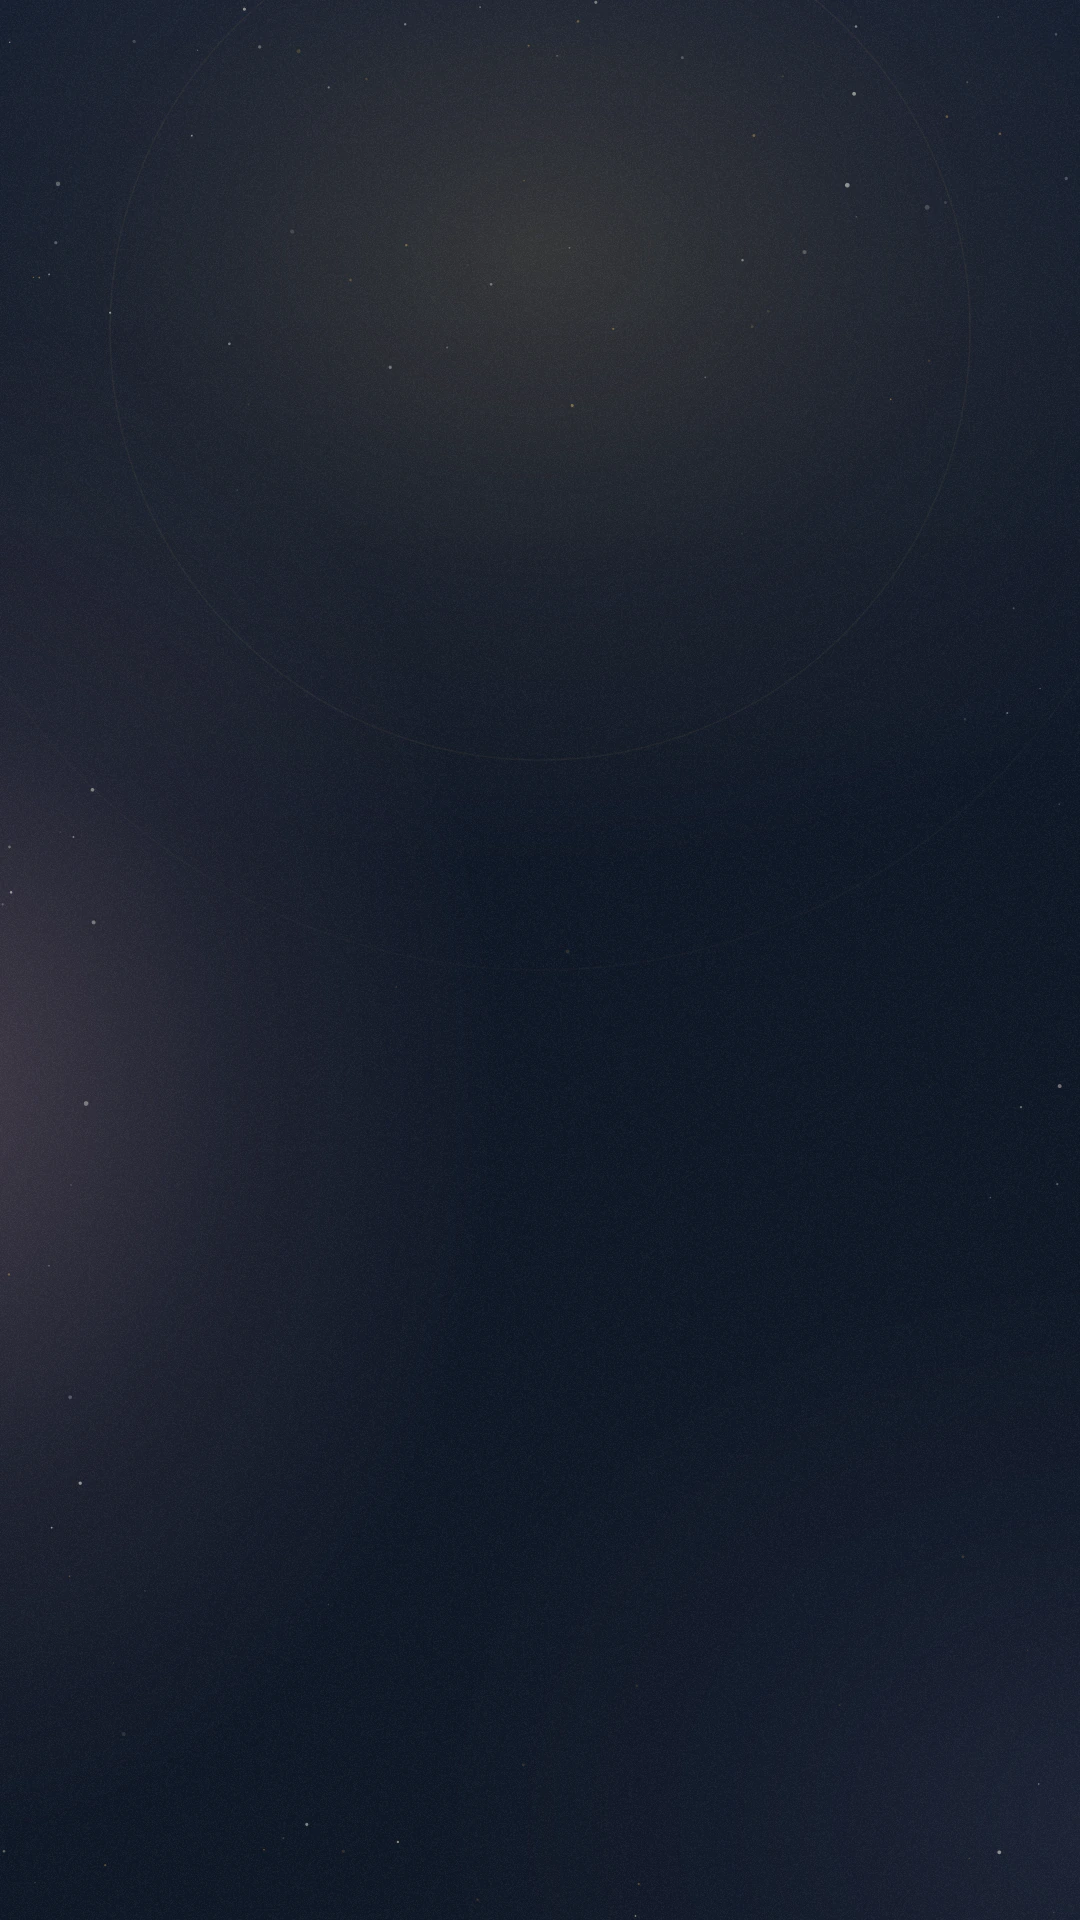
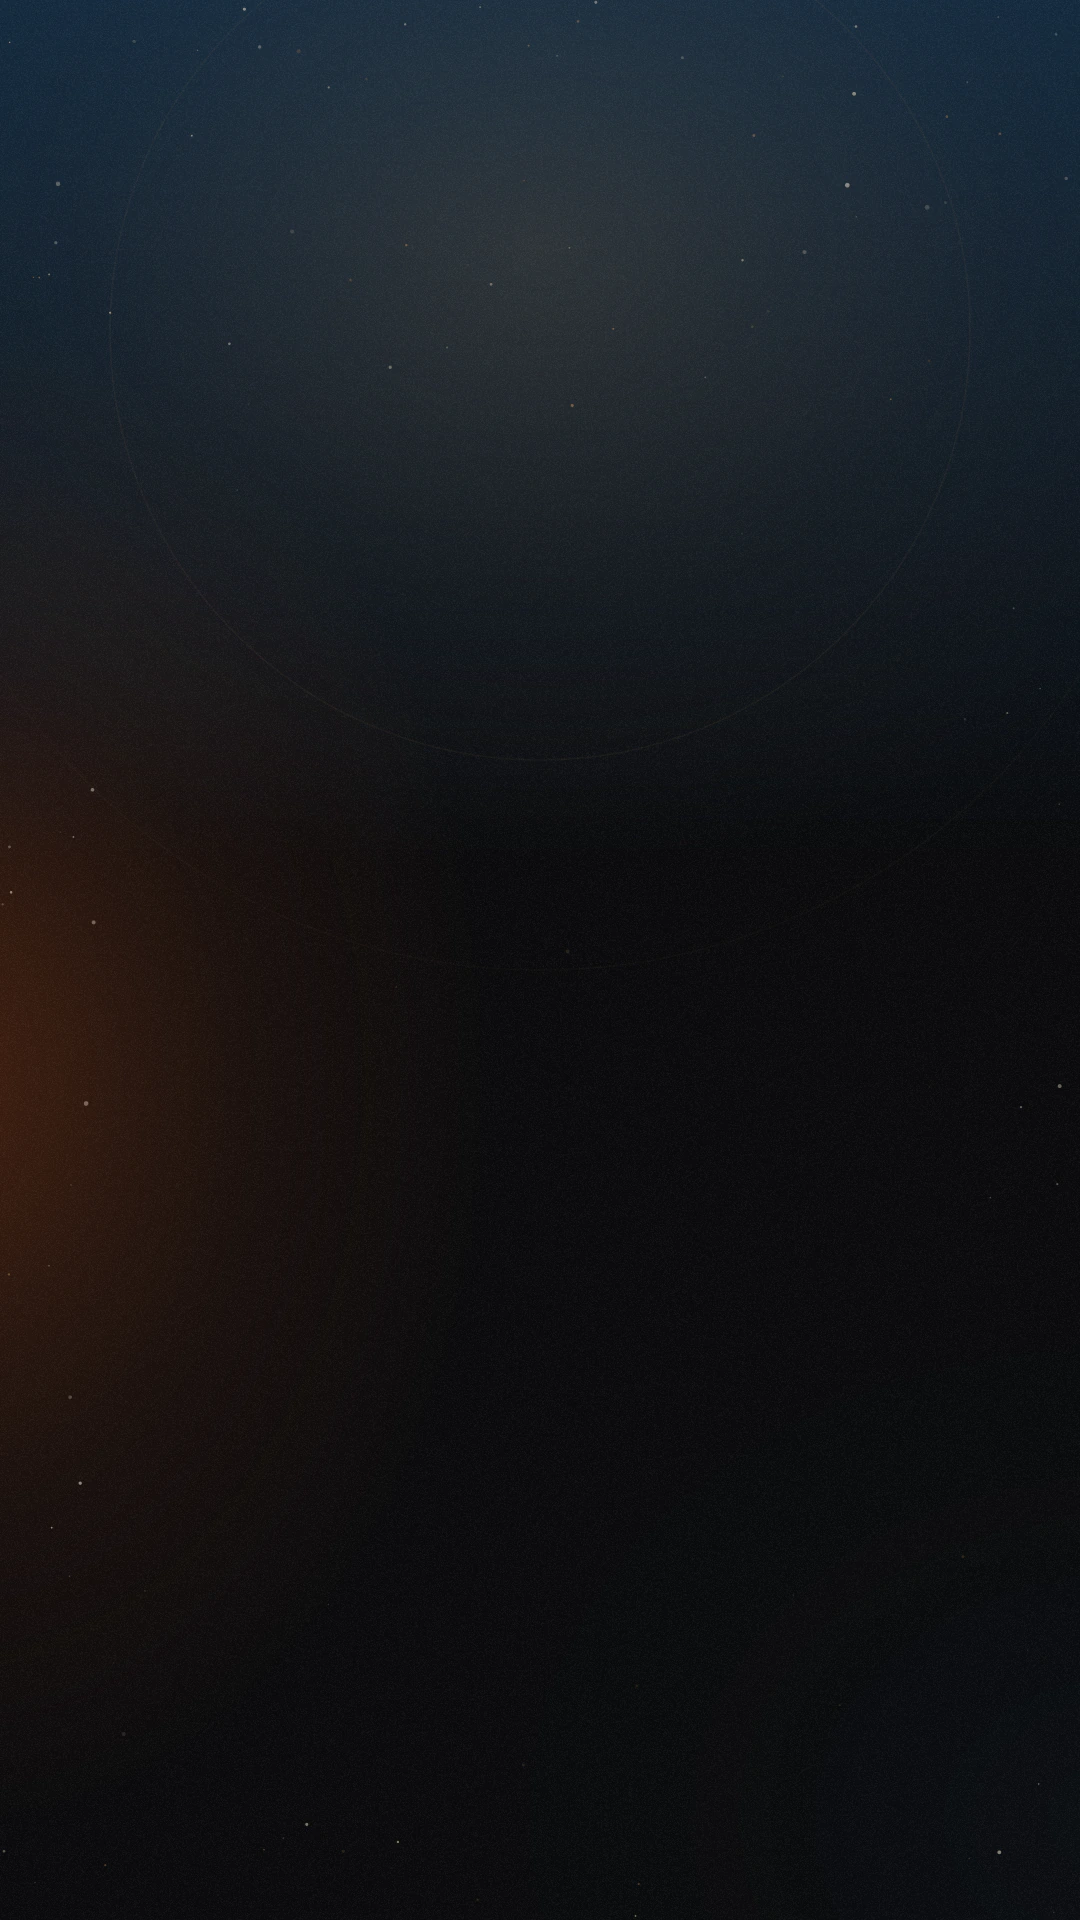
feat(design): direction « nuit, papier et braise » (ADR-033)
Encre noire, texte parchemin, accent orange brûlé, lignes d'orbite en bronze, lueur bleu nuit ;
thème clair sur papier. Fonds de carte régénérés, symbole et écran de lancement accordés.

Claude-Session: https://claude.ai/code/session_011dJqJYMKgc5MMgHRWGadNE

diff --git a/packages/shared/src/tokens/colors.ts b/packages/shared/src/tokens/colors.ts
@@ -32,62 +32,85 @@ export const COLOR_ROLES = [
 export type ColorRole = (typeof COLOR_ROLES)[number];
 export type ColorScheme = Readonly<Record<ColorRole, string>>;
 
+/**
+ * Direction « nuit, papier et braise » (ADR-033) : noir profond, bleu nuit, papier beige, orange brûlé,
+ * fines lignes de bronze. Ces teintes ne servent qu'aux deux thèmes ci-dessous.
+ */
+const night = {
+  ink: '#0B0B0D',
+  coal: '#141416',
+  coalRaised: '#1C1C20',
+  seam: '#2E2823',
+  navy: '#10283F',
+  navyDeep: '#0D1A28',
+  paper: '#DCCDB5',
+  paperLight: '#E4D7C2',
+  paperLighter: '#EBE0CE',
+  paperEdge: '#BFAE94',
+  paperShade: '#D3C2A6',
+  parchment: '#E9DDC9',
+  ash: '#A69B8B',
+  ember: '#E2711D',
+  emberDeep: '#AD4705',
+  emberInk: '#7E3403',
+  bronze: '#B08A5E',
+} as const;
+
+/** Thème sombre, par défaut (ADR-033) : encre noire, texte parchemin, accent braise. */
 export const darkColors: ColorScheme = {
-  bg: palette.midnight,
-  surface: palette.deepNavy,
-  surfaceRaised: palette.slate,
-  border: '#2C3A54',
-  text: palette.ivory,
-  textSecondary: palette.warmGrey,
-  accent: palette.champagne,
-  accentFill: palette.champagne,
-  accentText: palette.champagne,
-  onAccent: palette.midnight,
-  aspectSoft: palette.lavenderGrey,
-  aspectHard: palette.dustyRose,
+  bg: night.ink,
+  surface: night.coal,
+  surfaceRaised: night.coalRaised,
+  border: night.seam,
+  text: night.parchment,
+  textSecondary: night.ash,
+  accent: night.ember,
+  accentFill: night.ember,
+  accentText: night.ember,
+  onAccent: night.ink,
+  aspectSoft: '#7FA3C7',
+  aspectHard: '#D46A4A',
   success: palette.sage,
-  danger: palette.mutedCoral,
-  scrim: 'rgba(16,24,39,0.72)',
-  // ADR-007 : fond nébuleux (dégradé de `backdrop` vers `backdropTint`) et halo ciblé.
-  backdrop: palette.aubergine,
-  backdropTint: palette.nebula,
-  glow: 'rgba(233,214,172,0.35)',
-  // Finition « verre et laiton » : reflet intérieur des surfaces, bordure d'accent atténuée.
-  highlight: 'rgba(243,239,231,0.08)',
-  accentMuted: 'rgba(198,166,106,0.35)',
+  danger: '#E0584B',
+  scrim: 'rgba(11,11,13,0.76)',
+  // Fond : une lueur bleu nuit très douce en haut d'écran.
+  backdrop: night.navyDeep,
+  backdropTint: night.navy,
+  glow: 'rgba(226,113,29,0.30)',
+  highlight: 'rgba(233,221,201,0.06)',
+  // Lignes d'orbite, filets et bordures mises en avant : bronze atténué.
+  accentMuted: 'rgba(176,138,94,0.55)',
 };
 
-/**
- * Thème clair, par défaut depuis ADR-032 (planche « ivoire et doré ») : fond ivoire chaud, cartes crème,
- * encre nuit, doré profond pour les traits et les états. Valide seulement si le test de contraste passe.
- */
+/** Thème clair : le même univers sur papier beige, encre noire, braise approfondie pour rester lisible. */
 export const lightColors: ColorScheme = {
-  bg: palette.ivory,
-  surface: '#FAF6EE',
-  surfaceRaised: '#FFFDF8',
-  border: '#E3D9C8',
-  text: palette.midnight,
-  textSecondary: '#55596A',
-  // Champagne Gold est trop clair sur ivoire pour un trait ou un petit texte : sa version profonde le remplace.
-  accent: palette.champagneDeep,
-  // Aplat des boutons et des pastilles actives : le Champagne Gold de la charte, sous un texte encre nuit.
-  accentFill: palette.champagne,
-  accentText: palette.champagneInk,
-  onAccent: palette.midnight,
-  aspectSoft: palette.lavenderDeep,
-  aspectHard: '#8E5F6B',
-  success: '#4F7A5C',
-  danger: '#A8504A',
-  scrim: 'rgba(16,24,39,0.40)',
-  backdrop: '#F2ECE1',
-  backdropTint: '#F0E7D8',
-  glow: 'rgba(156,124,64,0.22)',
-  highlight: 'rgba(255,255,255,0.70)',
-  accentMuted: 'rgba(156,124,64,0.35)',
+  bg: night.paper,
+  surface: night.paperLight,
+  surfaceRaised: night.paperLighter,
+  border: night.paperEdge,
+  text: night.ink,
+  textSecondary: '#4A443C',
+  accent: night.emberDeep,
+  accentFill: night.ember,
+  accentText: night.emberInk,
+  onAccent: night.ink,
+  aspectSoft: '#2F5E86',
+  aspectHard: '#A8401F',
+  success: '#3F6B4C',
+  danger: '#9E2F25',
+  scrim: 'rgba(11,11,13,0.40)',
+  backdrop: night.paper,
+  backdropTint: night.paperShade,
+  glow: 'rgba(173,71,5,0.22)',
+  highlight: 'rgba(255,255,255,0.45)',
+  accentMuted: 'rgba(126,52,3,0.40)',
 };
+
+/** Couleurs du symbole selon le fond (remplace celles de l'Annexe C tant que le logo définitif n'est pas livré). */
+export const brandInk = { paper: night.parchment, ink: night.ink, bronze: night.bronze, emberFrom: '#C9541A', emberTo: '#F08A2E', emberDeep: night.emberDeep } as const;
 
 export const THEME_NAMES = ['dark', 'light'] as const;
 export type ThemeName = (typeof THEME_NAMES)[number];
-/** Thème servi par défaut (ADR-032). Le sombre reste disponible. */
-export const DEFAULT_THEME: ThemeName = 'light';
+/** Thème servi par défaut (ADR-033). Le clair, sur papier, reste disponible. */
+export const DEFAULT_THEME: ThemeName = 'dark';
 export const colorSchemes: Readonly<Record<ThemeName, ColorScheme>> = { dark: darkColors, light: lightColors };

diff --git a/apps/mobile/src/components/ui/Backdrop.tsx b/apps/mobile/src/components/ui/Backdrop.tsx
@@ -1,11 +1,15 @@
-// Fond nébuleux (ADR-007) : nuit profonde, lueur violette très douce en haut d'écran, grain discret.
+// Fond (ADR-007, ADR-033) : encre profonde, lueur bleu nuit très douce en haut d'écran, deux fines lignes
+// d'orbite en bronze, grain discret.
 // Purement décoratif : ne reçoit aucun geste et n'est pas lu par VoiceOver.
-import { Canvas, Fill, Image, RadialGradient, Rect, useImage, vec } from '@shopify/react-native-skia';
+import { Canvas, Fill, Image, Oval, RadialGradient, Rect, useImage, vec } from '@shopify/react-native-skia';
 import { StyleSheet, useWindowDimensions } from 'react-native';
 import { getAsset, isProvisional } from '@/assets/registry';
 import { useTheme } from '@/theme/ThemeProvider';
 
 const NEBULA_RADIUS_RATIO = 0.9;
+// Orbites : deux ellipses décentrées qui débordent du haut de l'écran, en proportion de sa largeur.
+const ORBITS = [{ cx: 0.5, cy: 0.04, rx: 0.72, ry: 0.5 }, { cx: 0.62, cy: -0.02, rx: 0.46, ry: 0.34 }] as const;
+const ORBIT_OPACITY = 0.5;
 
 export function Backdrop() {
   const theme = useTheme();
@@ -17,6 +21,10 @@ export function Backdrop() {
       <Rect x={0} y={0} width={width} height={height} opacity={theme.opacities.nebula}>
         <RadialGradient c={vec(width / 2, 0)} r={width * NEBULA_RADIUS_RATIO} colors={[theme.colors.backdropTint, theme.colors.backdrop, theme.colors.bg]} />
       </Rect>
+      {ORBITS.map((o) => (
+        <Oval key={o.rx} x={(o.cx - o.rx) * width} y={(o.cy - o.ry) * width} width={o.rx * 2 * width} height={o.ry * 2 * width}
+          color={theme.colors.accentMuted} opacity={ORBIT_OPACITY} style="stroke" strokeWidth={theme.borderWidth} />
+      ))}
       {grain ? <Image image={grain} x={0} y={0} width={width} height={height} fit="cover" opacity={theme.opacities.grain} /> : null}
     </Canvas>
   );

diff --git a/packages/shared/src/tokens/logo.ts b/packages/shared/src/tokens/logo.ts
@@ -1,6 +1,6 @@
 // Géométrie canonique du symbole Aurorya (SPEC Annexe C.1), dans un repère 200 × 200.
 // Seule source des cotes : le fichier SVG du registre et l'animation AuroraRise en dérivent.
-import { palette } from './colors';
+import { brandInk } from './colors';
 
 export const LOGO = {
   box: 200,
@@ -15,16 +15,16 @@ export const LOGO = {
 
 /** Couleurs du symbole sur fond sombre (Annexe C.1). Le logo ne se recolore pas hors palette. */
 const logoOnDark = {
-  ring: palette.ivory,
-  halo: palette.lavenderGrey,
-  sunFrom: palette.dustyRose,
-  sunTo: palette.champagneLight,
-  horizon: palette.ivory,
-  letter: palette.champagne,
-  star: palette.ivory,
+  ring: brandInk.paper,
+  halo: brandInk.bronze,
+  sunFrom: brandInk.emberFrom,
+  sunTo: brandInk.emberTo,
+  horizon: brandInk.paper,
+  letter: brandInk.bronze,
+  star: brandInk.paper,
 } as const;
-/** Sur fond clair, les traits ivoire deviennent encre nuit et le doré s'approfondit pour rester lisible. */
-const logoOnLight = { ...logoOnDark, ring: palette.midnight, halo: palette.lavenderDeep, horizon: palette.midnight, letter: palette.champagneDeep, star: palette.midnight } as const;
+/** Sur papier, les traits clairs deviennent encre noire. */
+const logoOnLight = { ...logoOnDark, ring: brandInk.ink, horizon: brandInk.ink, letter: brandInk.emberDeep, star: brandInk.ink } as const;
 export const logoColorsFor = { dark: logoOnDark, light: logoOnLight } as const;
 /** Couleurs du logo sur fond nuit (carte de partage, visuels de marque). */
 export const logoColors = logoOnDark;

diff --git a/apps/mobile/src/features/home/HomeScreen.tsx b/apps/mobile/src/features/home/HomeScreen.tsx
@@ -6,7 +6,7 @@ import { useTranslation } from 'react-i18next';
 import { ActivityIndicator, Pressable, View } from 'react-native';
 import type { GlyphId } from '@/assets/registry';
 import { Glyph } from '@/components/astro/Glyph';
-import { Button, Card, PhotoHalo, Screen, Text } from '@/components/ui';
+import { Button, Card, Screen, Text } from '@/components/ui';
 import { toIsoDate } from '@/features/onboarding/draft';
 import { feedback } from '@/services/feedback';
 import { useDaily } from '@/services/query';
@@ -39,7 +39,6 @@ export function HomeScreen() {
         <Text variant="label" color="textSecondary">{new Intl.DateTimeFormat(locale, { weekday: 'long', day: 'numeric', month: 'long', year: 'numeric' }).format(today)}</Text>
       </View>
       <Card raised glow>
-        <PhotoHalo id="photo-scene-welcome" height={theme.spacing.s56 * 4} />
         <Text variant="label" color="accentText">{t('home.horoscopeLabel')}</Text>
         {daily.isPending ? <ActivityIndicator color={theme.colors.accent} accessibilityLabel={t('common.loading')} />
           : horoscope ? (

diff --git a/apps/mobile/app.config.ts b/apps/mobile/app.config.ts
@@ -1,9 +1,9 @@
 // Configuration de l'app (SPEC §15.10). Les valeurs d'environnement viennent de la machine de build, jamais du dépôt.
 import type { ConfigContext, ExpoConfig } from 'expo/config';
 
-// Même valeur que palette.ivory (packages/shared), fond du thème clair par défaut (ADR-032) : ce fichier est lu
+// Même valeur que darkColors.bg (packages/shared), fond du thème par défaut (ADR-033) : ce fichier est lu
 // par l'outillage natif, hors du bundle. Un test vérifie que les deux restent identiques.
-const SPLASH_BACKGROUND = '#F3EFE7';
+const SPLASH_BACKGROUND = '#0B0B0D';
 
 export default ({ config }: ConfigContext): ExpoConfig => ({
   ...config,
@@ -12,7 +12,7 @@ export default ({ config }: ConfigContext): ExpoConfig => ({
   version: '0.1.0',
   scheme: 'aurorya',
   orientation: 'portrait',
-  userInterfaceStyle: 'light',
+  userInterfaceStyle: 'dark',
   backgroundColor: SPLASH_BACKGROUND,
   icon: './assets/icons/icon-app-ios.png',
   ios: {

diff --git a/scripts/assets/card-backgrounds.ts b/scripts/assets/card-backgrounds.ts
@@ -5,8 +5,8 @@ import { mkdirSync } from 'node:fs';
 import { join } from 'node:path';
 import sharp from 'sharp';
 
-// Valeurs reprises de packages/shared/src/tokens/colors.ts (palette).
-const P = { midnight: '#101827', deepNavy: '#17243A', aubergine: '#131C30', nebula: '#2A3558', ivory: '#F3EFE7', champagne: '#C6A66A', lavender: '#A79ACB', lavenderDeep: '#7D75A3', rose: '#B98F99', coral: '#C96F68', sage: '#9DAE9C' } as const;
+// Valeurs reprises de packages/shared/src/tokens/colors.ts (direction « nuit, papier et braise », ADR-033).
+const P = { midnight: '#0B0B0D', deepNavy: '#0D1A28', aubergine: '#10283F', nebula: '#10283F', ivory: '#E9DDC9', champagne: '#B08A5E', lavender: '#7FA3C7', lavenderDeep: '#10283F', rose: '#C9541A', coral: '#E2711D', sage: '#9DAE9C' } as const;
 const W = 1080;
 const H = 1920;
 // Colonne de texte du gabarit (packages/shared/src/card-layout) : presque aucune étoile dedans.

diff --git a/apps/mobile/src/i18n/app-shell.test.ts b/apps/mobile/src/i18n/app-shell.test.ts
@@ -1,5 +1,5 @@
 import { readFileSync } from 'node:fs';
-import { palette } from '@aurorya/shared';
+import { darkColors } from '@aurorya/shared';
 import { describe, expect, it } from 'vitest';
 import en from './locales/en/common.json';
 import fr from './locales/fr/common.json';
@@ -24,7 +24,7 @@ describe('langue de l’app', () => {
 describe('configuration native', () => {
   const config = readFileSync(new URL('../../app.config.ts', import.meta.url), 'utf8');
   it('utilise la couleur de fond des tokens', () => {
-    expect(config).toContain(`SPLASH_BACKGROUND = '${palette.ivory}'`);
+    expect(config).toContain(`SPLASH_BACKGROUND = '${darkColors.bg}'`);
   });
   it('cible l’iPhone en portrait, avec l’identifiant de bundle validé (ADR-003)', () => {
     expect(config).toContain("bundleIdentifier: 'com.aurorya.app'");

diff --git a/packages/shared/src/tokens/contrast.test.ts b/packages/shared/src/tokens/contrast.test.ts
@@ -32,9 +32,7 @@ describe('contraste', () => {
     it.each(cases)('%s sur %s ≥ %d', (fg, bg, min) => {
       expect(contrastRatio(scheme[fg], scheme[bg])).toBeGreaterThanOrEqual(min);
     });
-    it('onAccent sur accent ≥ 4.5', () => {
-      expect(contrastRatio(scheme.onAccent, scheme.accent)).toBeGreaterThanOrEqual(BODY);
-    });
+    // `onAccent` ne se pose que sur l'aplat `accentFill` (boutons) : `accent` sert aux traits et aux icônes.
     it('onAccent sur accentFill ≥ 4.5', () => {
       expect(contrastRatio(scheme.onAccent, scheme.accentFill)).toBeGreaterThanOrEqual(BODY);
     });

diff --git a/docs/STATE.md b/docs/STATE.md
@@ -110,6 +110,7 @@ Vérifié à chaque lot, codes de retour lus : `pnpm typecheck`, `pnpm lint`, `p
 - **Lot A1, fait aussi** : Manrope retirée (ADR-031), titres fonctionnels et étiquettes en Inter Medium ; non revu à l'écran.
 - **Direction « ivoire et doré » (ADR-032)** : thème clair par défaut en place. Vérifié : typecheck, lint, 371 tests, export iOS ; rendu vu dans un navigateur sur l'accueil, la révélation, Mon ciel, Aujourd'hui et le paywall. Non vérifié sur iPhone.
 - **Cinq onglets et accueil (2026-11-26)** : Accueil (salutation, horoscope du jour, raccourcis, fonctions V2 marquées « à venir » et non cliquables), Horoscope (ancien « Aujourd'hui »), Explorer (Mon thème), Relations (groupes), Profil (anciens réglages). Les routes internes `today`, `sky`, `groups` gardent leur nom. Vérifié : typecheck, lint, 371 tests, export iOS ; accueil vu dans un navigateur contre la production. Non vérifié : la barre d'onglets native et ses icônes système sur iPhone.
+- **Direction « nuit, papier et braise » (ADR-033, 2026-11-26)** : remplace l'ivoire et doré. Thèmes réécrits, lignes d'orbite, fonds de carte régénérés. Vérifié : typecheck, lint, 369 tests (contraste des deux thèmes), export iOS ; vu dans un navigateur sur l'accueil, la révélation, le profil, Mon ciel et la carte de partage. Non vérifié sur iPhone. À refaire : toute la série d'images dans ce style ; l'image de lune pêche n'est plus affichée sur l'accueil.
 - **Images (2026-11-26)** : image d'accueil générée avec Higgsfield, choisie par le fondateur (variante B), installée et promue (`scripts/assets/import-photo.ts` : dimensions du registre, bords fondus). Sur fond clair les photos s'affichent à 85 %. Trois signes générés (Taureau, Lion, Poissons), non installés, non encore montrés. Série interrompue : Higgsfield a refusé neuf demandes (limite quotidienne du compte). Droits d'usage des images générées à confirmer avant publication. Non vu à l'écran.
 - **Écarts avec les maquettes, à traiter** : pas de menu latéral (les fonctions à venir sont listées en bas de l'accueil, faute d'icône de menu au registre) ; pas d'images ; Horoscope sans vues Semaine et Mois (non construites côté serveur) ; Relations sans compatibilité à deux ; Profil encore présenté comme des réglages ; mot-symbole du logo.
 - **Lot A1, reste** : grille et rayons, identité visuelle personnelle, logo en mot-symbole, inventaire d'icônes, fichiers définitifs. Lots A2 à A4 : non commencés (plan en SPEC §27.9).

diff --git a/docs/DECISIONS.md b/docs/DECISIONS.md
@@ -283,3 +283,10 @@ Validé par : fondateur (demande d'une autre voie, puis d'un lien), mise en œuv
   4. Images : générées avec le connecteur Higgsfield du fondateur (ses crédits), montrées avant installation, sans portrait de personne.
 - **Fait dans ce commit** : thème clair par défaut, rôle `accentFill` (aplat doré des boutons), couleurs du logo selon le fond, barre d'état et écran de lancement accordés. Test de contraste vert sur les deux thèmes.
 - **Limites connues** : la carte de partage reste sur fond nuit (choix : elle doit ressortir dans une story) ; les sigles AC et MC peuvent chevaucher un glyphe de signe au bord de la roue ; les titres en Inter Medium n'ont pas été revus sur iPhone.
+
+## ADR-033 — Direction visuelle « nuit, papier et braise » (2026-11-26)
+- **Contexte** : une heure après ADR-032, le fondateur a transmis une nouvelle référence (planche de gabarits de stories : noir profond, bleu nuit, papier beige, orange brûlé, fines lignes d'orbite, photos de lune et de ciel nocturne) avec la consigne de reprendre tout le design dans cet esprit.
+- **Décision** : cette direction **remplace** la planche « ivoire et doré » d'ADR-032 **et la palette du cahier** (ADR-030, SPEC §27.5). Thème sombre par défaut : encre `#0B0B0D`, surfaces charbon, texte parchemin `#E9DDC9`, accent braise `#E2711D`, lignes de bronze `#B08A5E`, lueur bleu nuit `#10283F`. Thème clair conservé, sur papier `#DCCDB5`. La référence sert d'inspiration (couleurs, lignes, ambiance) ; aucun gabarit n'est recopié.
+- **Fait** : les deux thèmes réécrits et tenus par le test de contraste ; lignes d'orbite dans le fond d'écran ; couleurs du symbole ; fonds de carte régénérés ; écran de lancement noir.
+- **Reste d'ADR-032 en vigueur** : les cinq onglets, les fonctions V2 marquées « à venir », la génération d'images par Higgsfield.
+- **Conséquences** : l'image d'accueil générée pour l'ancienne direction (lune pêche) ne convient plus ; elle reste au registre mais n'est plus affichée sur la carte d'accueil, et la série d'images est à refaire dans le nouveau style. La palette du cahier v1.0 n'est plus appliquée : écart assumé, à la demande du fondateur.

diff --git a/docs/SPEC.md b/docs/SPEC.md
@@ -3305,7 +3305,8 @@ Ce document est la référence. Toute évolution passe par une entrée de `docs/
 - Logo : mot-symbole « Aurorya », A majuscule avec étoile intégrée, quatre versions (doré sur nuit, ivoire sur nuit, nuit sur clair, monochrome). Remplace l'Annexe C quand les fichiers définitifs sont livrés ; d'ici là l'Annexe C reste en vigueur.
 - Identité visuelle personnelle : module déterministe et versionné qui transforme des facteurs du thème en tokens (élément dominant → famille de couleurs ; planète dominante → accent ; polarité → intensité ; saison → motif discret). Réglage d'intensité, et retour possible au thème de contraste accessible. L'IA n'intervient pas.
 
-- **Direction visuelle (ADR-032)** : thème **clair par défaut**, ivoire chaud et doré (planche 1 des maquettes) ; cartes crème à coins arrondis, titres en Cormorant, boutons en aplat Champagne Gold sous texte encre nuit, photos douces. Le thème sombre reste disponible. D-024 est remplacée.
+- **Direction visuelle en vigueur (ADR-033, remplace le tableau de teintes ci-dessus et ADR-032)** : « nuit, papier et braise ». Thème sombre par défaut : encre noire, surfaces charbon, texte parchemin, accent orange brûlé, fines lignes d'orbite en bronze, lueur bleu nuit ; thème clair sur papier beige. Les valeurs vivent dans `packages/shared/src/tokens/colors.ts`, tenues par le test de contraste.
+- Direction précédente, abandonnée (ADR-032) : thème **clair par défaut**, ivoire chaud et doré (planche 1 des maquettes) ; cartes crème à coins arrondis, titres en Cormorant, boutons en aplat Champagne Gold sous texte encre nuit, photos douces. Le thème sombre reste disponible. D-024 est remplacée.
 
 ## 27.6 Gratuit et Premium `[DÉCIDÉ]` (complète §7.8)
 | Fonction | Gratuit | Premium |
